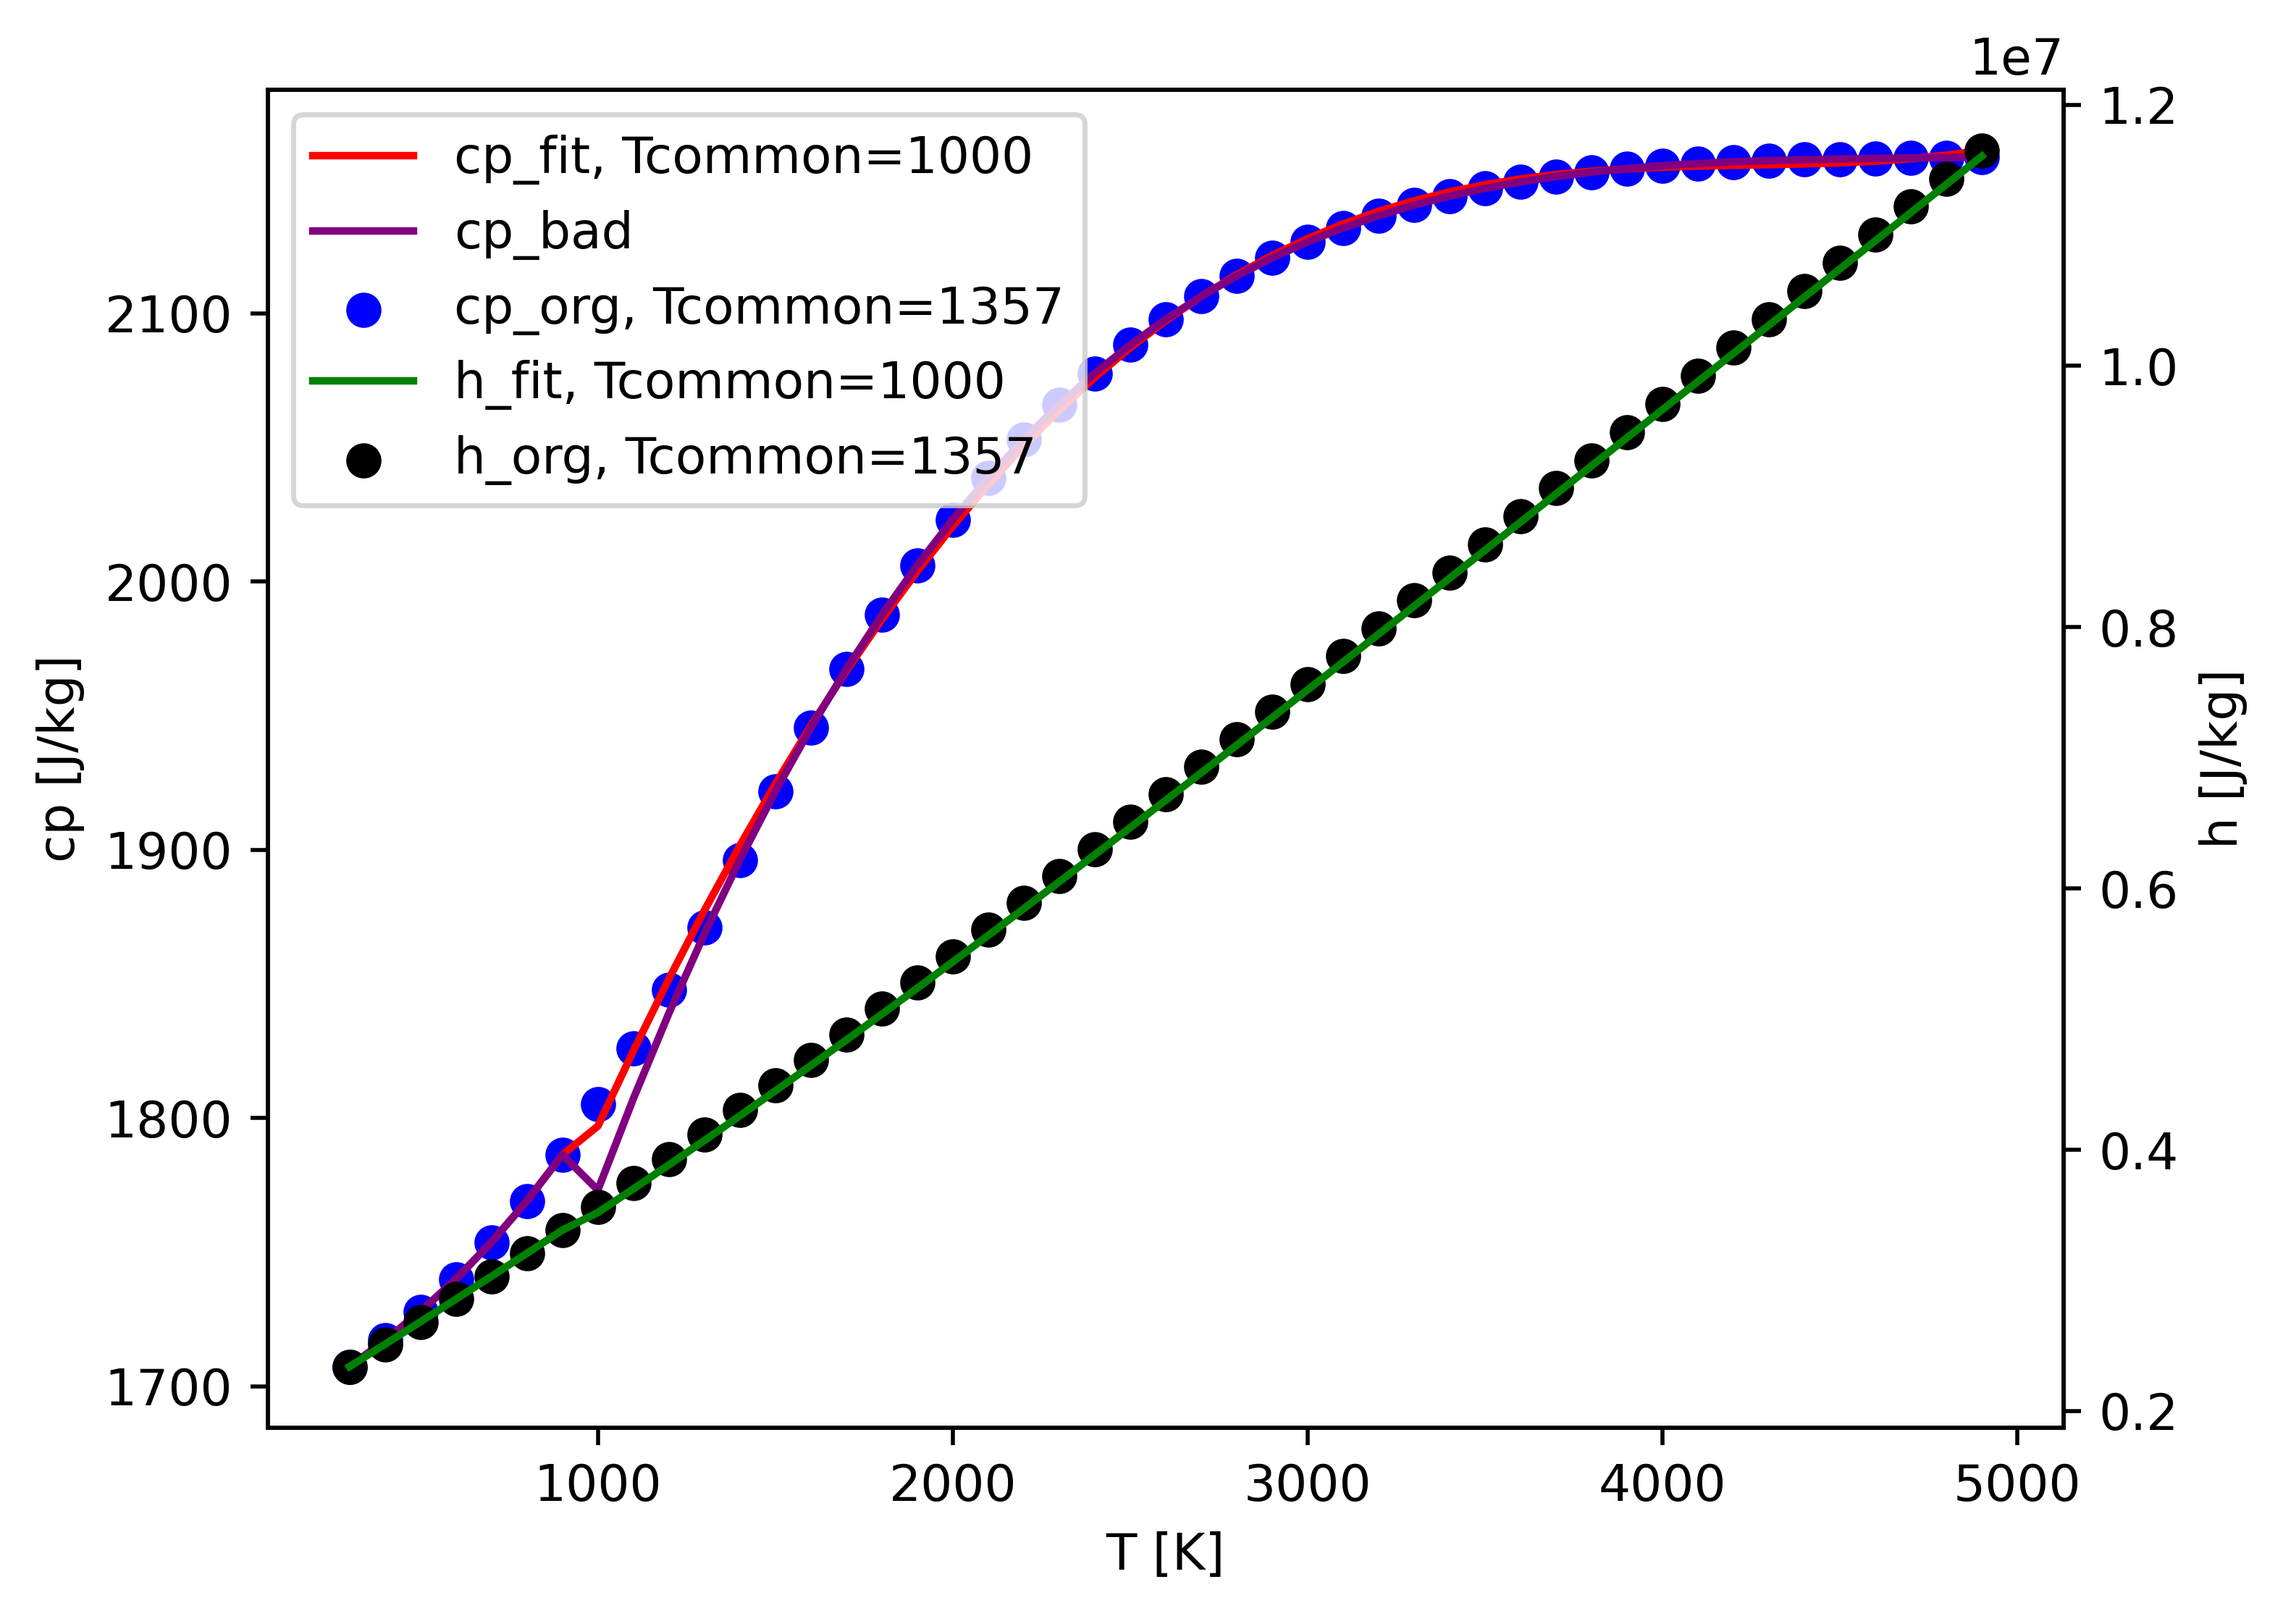
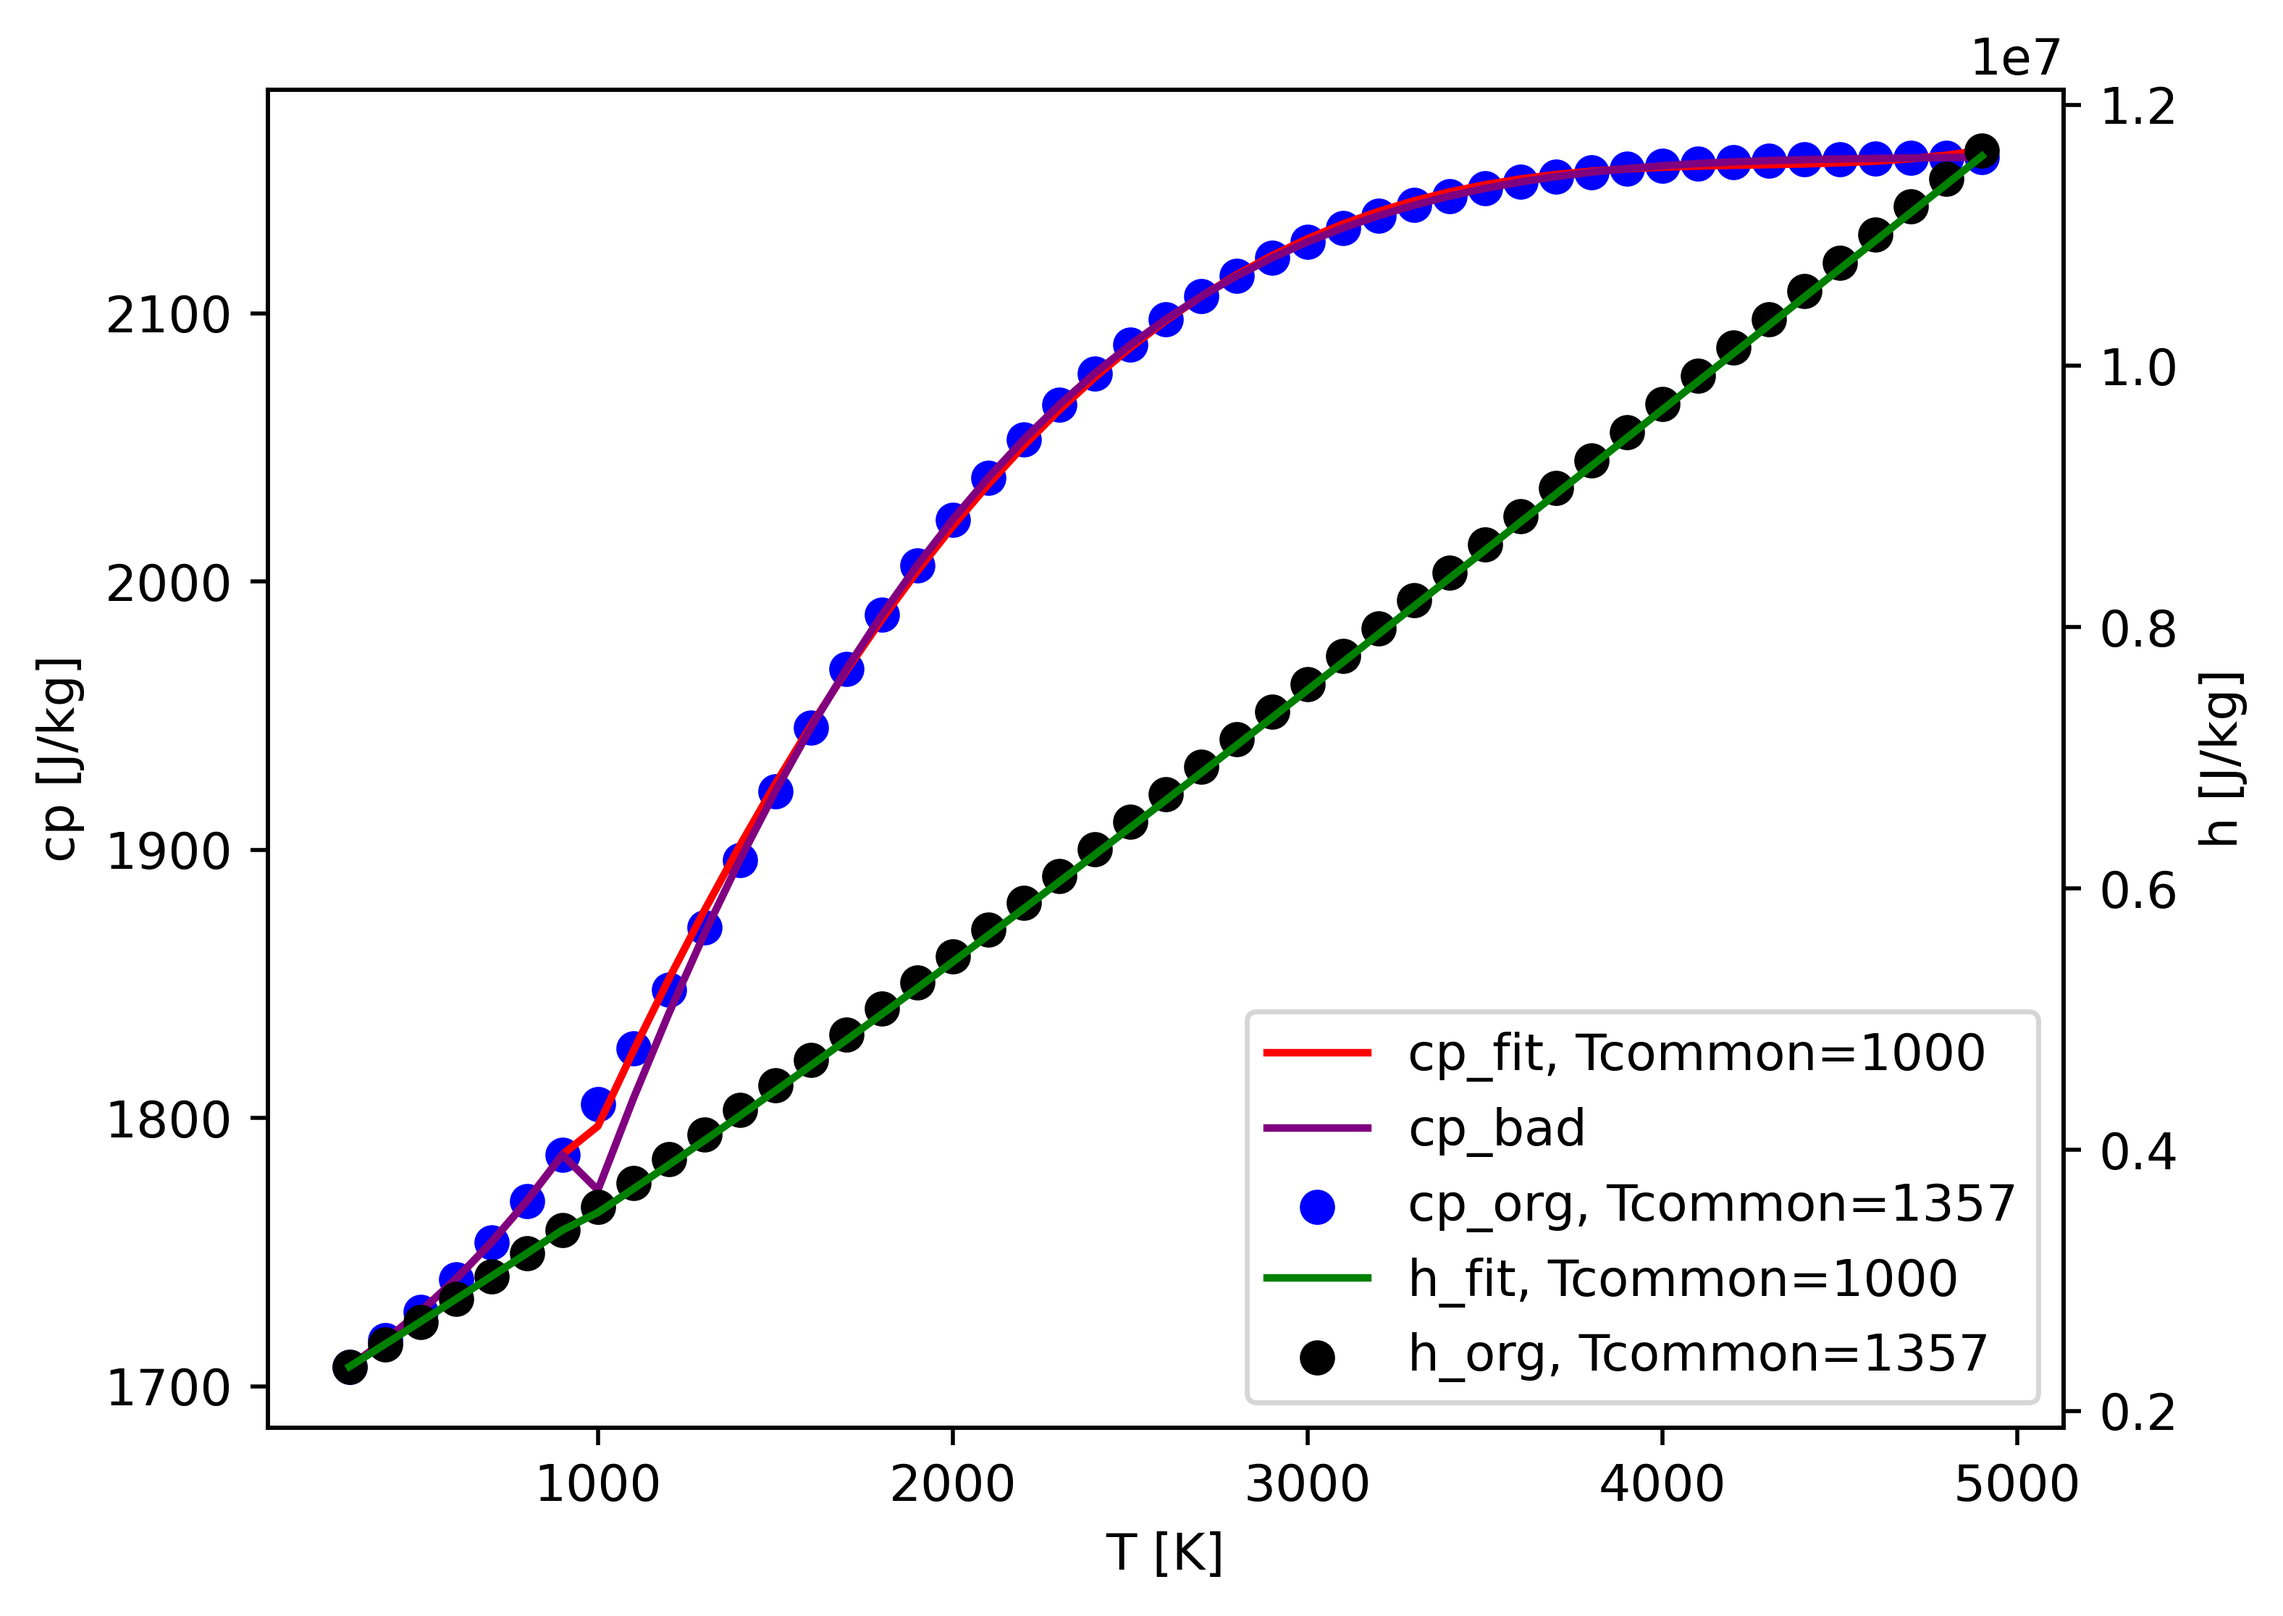
format

diff --git a/fitData_Cantera.py b/fitData_Cantera.py
@@ -59,8 +59,8 @@ def write(gas, thermo_fileName_new, plot):
 
             if (nasa_coeffs[0] != Tcommon):
                 print("fitting species: %s"%(species_name), "from ",nasa_coeffs[0], "to ",Tcommon)
-                cp_low = [species.thermo.cp(T)/molecular_weight for T in T_low] #  [J/(kmol·K)] / [kg/kmol] = [J/(kg·K)]
-                cp_high = [species.thermo.cp(T)/molecular_weight for T in T_high] # J/kg
+                cp_low = [species.thermo.cp(T)/molecular_weight for T in T_low] # [J/(kmol·K)] / [kg/kmol] = [J/(kg·K)]
+                cp_high = [species.thermo.cp(T)/molecular_weight for T in T_high] # [J/(kmol·K)] / [kg/kmol] = [J/(kg·K)]
 
                 cp_low_polynomials = np.polyfit(T_low, cp_low, 4)
                 cp_high_polynomials = np.polyfit(T_high, cp_high, 4)
@@ -86,38 +86,38 @@ def write(gas, thermo_fileName_new, plot):
 
                 if plot:
                     Tlist = np.concatenate([T_low, T_high])
-                    cp = [species.thermo.cp(T)/molecular_weight for T in Tlist] # J/kg
-                    cp_fit_low = [ np.sum(np.array([a1_a5_low[i]*T**(i) for i in range(5)])) for T in T_low]
-                    cp_fit_high = [ np.sum(np.array([a1_a5_high[i]*T**(i) for i in range(5)])) for T in T_high]
-                    cp_fit = np.concatenate([cp_fit_low, cp_fit_high])
+                    cp = [species.thermo.cp(T)/molecular_weight for T in Tlist] # [J/(kg·K)]
+                    cp_fit_low = [ np.sum(np.array([a1_a5_low[i]*T**(i) for i in range(5)])) for T in T_low] # cp/R
+                    cp_fit_high = [ np.sum(np.array([a1_a5_high[i]*T**(i) for i in range(5)])) for T in T_high] # cp/R
+                    cp_fit = np.concatenate([cp_fit_low, cp_fit_high])*R
 
                     a1_a5_org_low = species.thermo.coeffs[8:13]
                     a1_a5_org_high = species.thermo.coeffs[1:6]
-                    cp_bad_low = [ np.sum(np.array([a1_a5_org_low[i]*T**(i) for i in range(5)])) for T in T_low]
-                    cp_bad_high = [ np.sum(np.array([a1_a5_org_high[i]*T**(i) for i in range(5)])) for T in T_high]
-                    cp_bad = np.concatenate([cp_bad_low, cp_bad_high])
+                    cp_bad_low = [ np.sum(np.array([a1_a5_org_low[i]*T**(i) for i in range(5)])) for T in T_low] # cp/R
+                    cp_bad_high = [ np.sum(np.array([a1_a5_org_high[i]*T**(i) for i in range(5)])) for T in T_high] # cp/R
+                    cp_bad = np.concatenate([cp_bad_low, cp_bad_high])*R
 
 
                     enthalpy = [species.thermo.h(T)/molecular_weight for T in Tlist] # J/kg
-                    enthalpy_fit_low = [ a6_low + np.sum(np.array([a1_a5_low[i]*T**(i+1)/(i+1) for i in range(5)])) for T in T_low]
-                    enthalpy_fit_high = [ a6_high + np.sum(np.array([a1_a5_high[i]*T**(i+1)/(i+1) for i in range(5)])) for T in T_high]
-                    enthalpy_fit = np.concatenate([enthalpy_fit_low, enthalpy_fit_high])
+                    enthalpy_fit_low = [ a6_low + np.sum(np.array([a1_a5_low[i]*T**(i+1)/(i+1) for i in range(5)])) for T in T_low] # h/R
+                    enthalpy_fit_high = [ a6_high + np.sum(np.array([a1_a5_high[i]*T**(i+1)/(i+1) for i in range(5)])) for T in T_high] # h/R
+                    enthalpy_fit = np.concatenate([enthalpy_fit_low, enthalpy_fit_high])*R
 
                     fig = plt.figure()
 
                     ax1 = fig.add_subplot()
                     ax1.scatter(Tlist, cp, c='blue', label="cp_org, Tcommon=%d"%(species.thermo.coeffs[0]))
-                    ax1.plot(Tlist, cp_fit*R, c='red', label="cp_fit, Tcommon=1000")
-                    ax1.plot(Tlist, cp_bad*R, c='purple', label="cp_bad")
+                    ax1.plot(Tlist, cp_fit, c='red', label="cp_fit, Tcommon=1000")
+                    ax1.plot(Tlist, cp_bad, c='purple', label="cp_bad")
                     ax1.set_xlabel("T [K]")
                     ax1.set_ylabel("cp [J/kg]")
 
                     ax2 = plt.twinx()
                     ax2.scatter(Tlist, enthalpy, c='black', label="h_org, Tcommon=%d"%(species.thermo.coeffs[0]))
-                    ax2.plot(Tlist, enthalpy_fit*R, c='green', label="h_fit, Tcommon=1000")
+                    ax2.plot(Tlist, enthalpy_fit, c='green', label="h_fit, Tcommon=1000")
                     ax2.set_ylabel("h [J/kg]")
 
-                    fig.legend(loc="upper left", bbox_to_anchor=(0,1), bbox_transform=ax1.transAxes)
+                    fig.legend(loc="lower right", bbox_to_anchor=(1,0), bbox_transform=ax1.transAxes)
                     plt.savefig("%s.png"%(species_name), dpi=500, bbox_inches='tight', pad_inches=0.1)
                     plt.close()
 
@@ -125,7 +125,7 @@ def write(gas, thermo_fileName_new, plot):
 
             species_comp = ''
             for atom in species.composition:
-                species_comp += '{:<3}'.format(atom)
+                species_comp += '{:<3}'.format(atom.upper())
                 species_comp += '{:<2}'.format(str(int(species.composition[atom])))
 
             species_phase = 'G'
